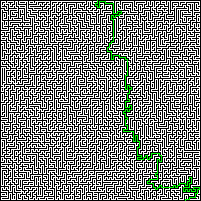
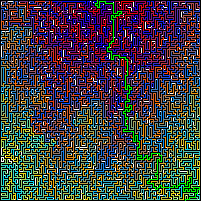
Colorized Maze for Dijksra search added ability to change color increment dinamicly clean up some of the extra methods that were in the drawthoughmaze class

diff --git a/src/DijkstraTest.java b/src/DijkstraTest.java
@@ -47,6 +47,15 @@ class DijkstraTest {
         return combo400Maze;
     }
 
+    private Maze buildperfect2kMaze() {
+        Maze perfect2kMaze = new Maze();
+        perfect2kMaze.setMazeFilePath(Paths.get("test-images/perfect2k.png"));
+        perfect2kMaze.constructMazeMatrix();
+        perfect2kMaze.findAndConnectNodes();
+        return perfect2kMaze;
+    }
+
+
     private Maze buildbraid2kMaze() {
         Maze braid2kMaze = new Maze();
         braid2kMaze.setMazeFilePath(Paths.get("test-images/braid2k.png"));
@@ -87,12 +96,20 @@ class DijkstraTest {
         assertEquals(true, reachedEnd, "If the DepthFirst Search reached the end");
     }
 
+    @Test
+    void testSearchCombo400() {
+        Maze c400maze = buildcombo400Maze();
+        Dijkstra dijkstraSearch = new Dijkstra();
+        boolean reachedEnd = dijkstraSearch.search(c400maze);
+        assertEquals(true, reachedEnd, "If the DepthFirst Search reached the end");
+    }
+//    // Still can't solve the larger mazes still not sure why, although it's possible im just not letting it run long enough
 //    @Test
-//    void testSearchCombo400() {
-//        Maze c400maze = buildcombo400Maze();
+//    void testSearchPerfect2k() {
+//        Maze perfect2kMaze = buildperfect2kMaze();
 //        Dijkstra dijkstraSearch = new Dijkstra();
-//        boolean reachedEnd = dijkstraSearch.search(c400maze);
-//        assertEquals(true, reachedEnd, "If the DepthFirst Search reached the end");
+//        boolean reachedEnd = dijkstraSearch.search(perfect2kMaze);
+//        assertEquals(true, reachedEnd, "If the LeftTurn Search reached the end");
 //    }
 //
 //    @Test

diff --git a/src/Dijkstra.java b/src/Dijkstra.java
@@ -6,6 +6,8 @@ class Dijkstra {
     private List<Maze.MazeNode> unsettledNodes = new ArrayList<Maze.MazeNode>();
     private List<Maze.MazeNode> settledNodes = new ArrayList<Maze.MazeNode>();
 
+    DrawPathThoughMaze drawing = new DrawPathThoughMaze();
+
     protected boolean search(Maze maze) {
         final long START_TIME = System.nanoTime();
         System.out.println("Dijkstra");
@@ -13,7 +15,7 @@ class Dijkstra {
         int mazeExit; //called bottom of maze in other algrothims
 
         // Set up drawing for image output of the solution
-        DrawPathThoughMaze drawing = new DrawPathThoughMaze();
+        drawing.setIncrement(3);
         drawing.createColorImage(maze);
         drawing.setOutputImagePath("Dijkstra_" + maze.getMazeMatrixLength());
 
@@ -73,6 +75,7 @@ class Dijkstra {
                     neighborNode.setParent(evaluationNode);
                     unsettledNodes.add(neighborNode);
                     neighborNode.setParent(evaluationNode);
+                    drawing.colorLine(evaluationNode.getPosition()[1], evaluationNode.getPosition()[0], neighborNode.getPosition()[1], neighborNode.getPosition()[0]);
                 }
             }
         }

diff --git a/src/DrawPathThoughMaze.java b/src/DrawPathThoughMaze.java
@@ -52,9 +52,14 @@ public class DrawPathThoughMaze {
         }
     }
 
-    public void setIncrement(int totalNumberOfNodesInSolution) {
-        // (red - blue) / totalNumberOfNodesInSolution
-        this.increment = (16529464 - 3701244) / totalNumberOfNodesInSolution;
+//    public void setIncrementByMazeSize(int totalNumberOfNodesInSolution) {
+//        // (red - blue) / totalNumberOfNodesInSolution
+//        this.increment = (16529464 - 3701244) / totalNumberOfNodesInSolution;
+//    }
+
+    protected void setIncrement(int incrementValue){
+        this.increment = incrementValue;
+        this.greenIncrement = -increment;
     }
 
     public void setOutputImagePath(String imagePath) {
@@ -67,13 +72,6 @@ public class DrawPathThoughMaze {
         this.increment = 0;
         colorRGB = new int[]{0, 255, 0};
         colorIsChanging = false;
-    }
-
-    public void setColorToChange(int totalNumberOfNodesInSolution) {
-        // (red - blue) / totalNumberOfNodesInSolution
-        this.increment = 1;
-        colorRGB = new int[]{0, 0, 255};
-        colorIsChanging = true;
     }
 
     private void incrementColor() {
